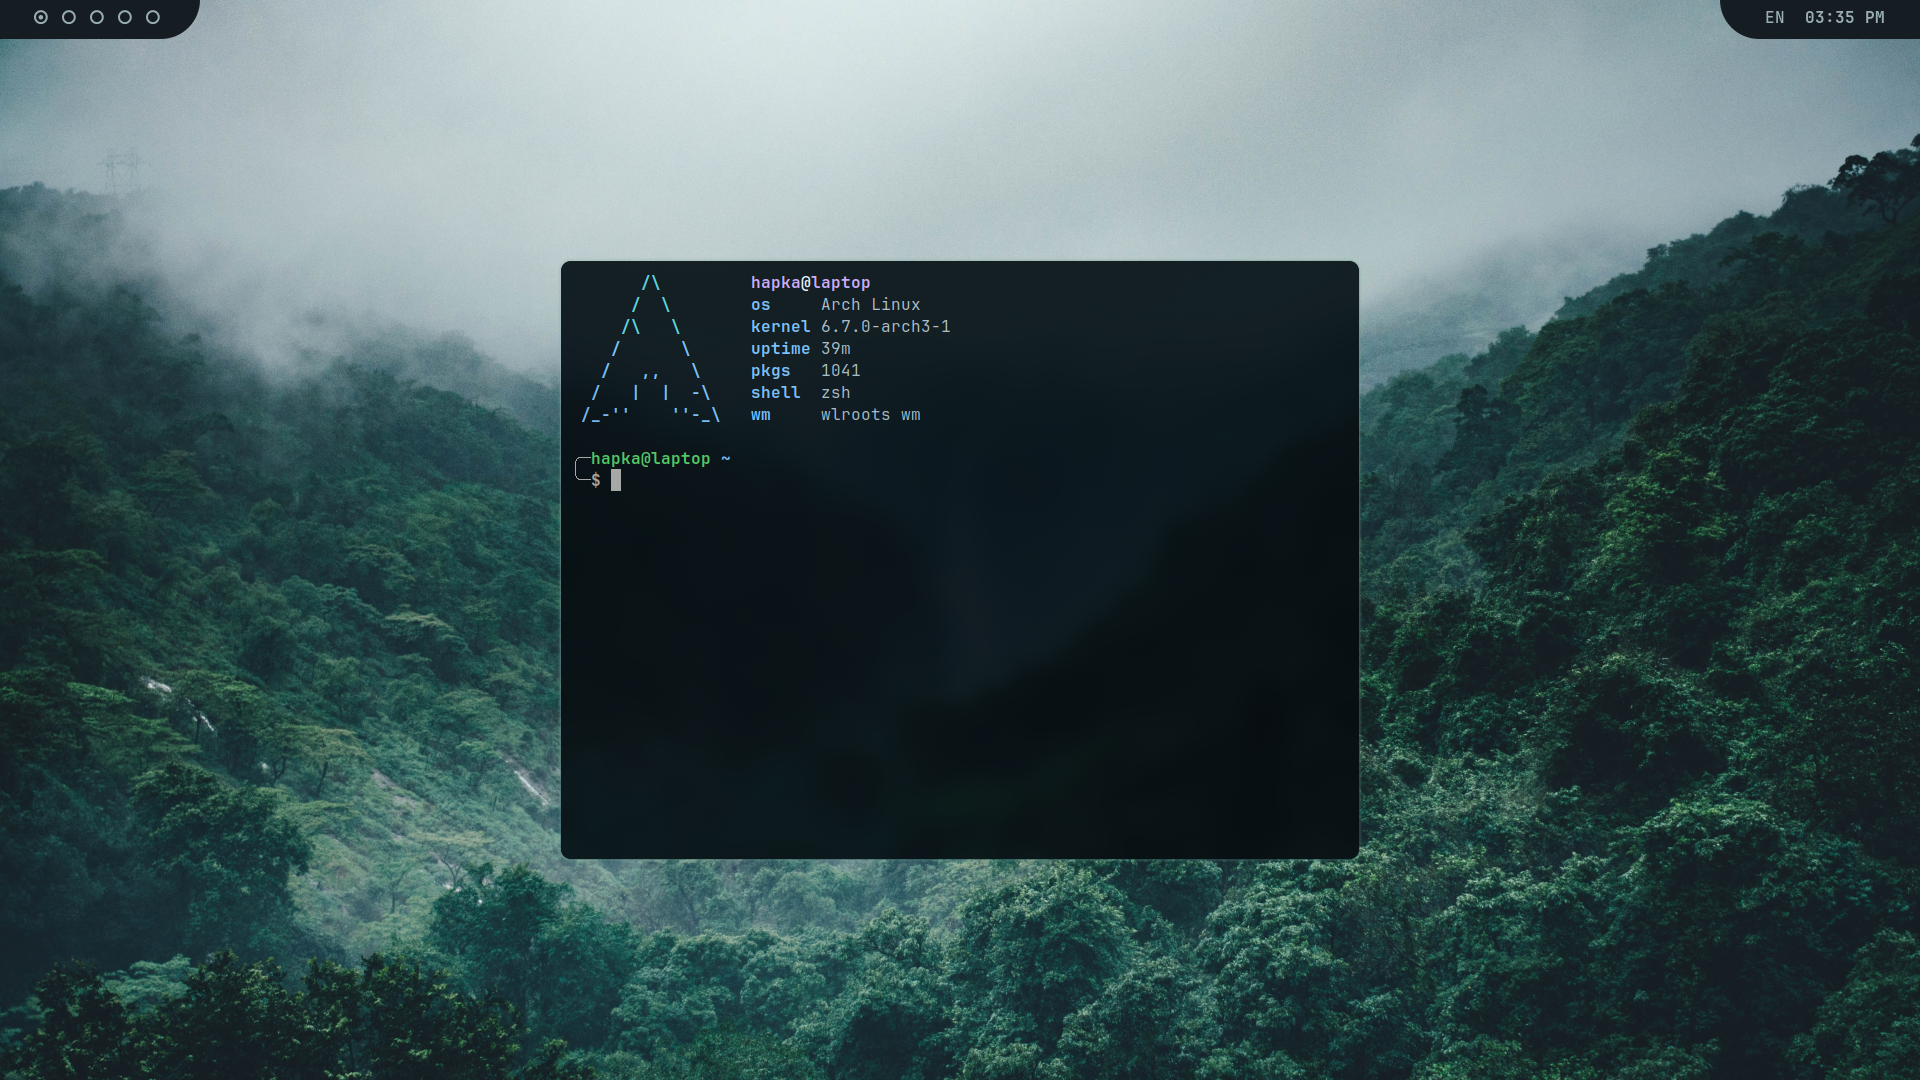
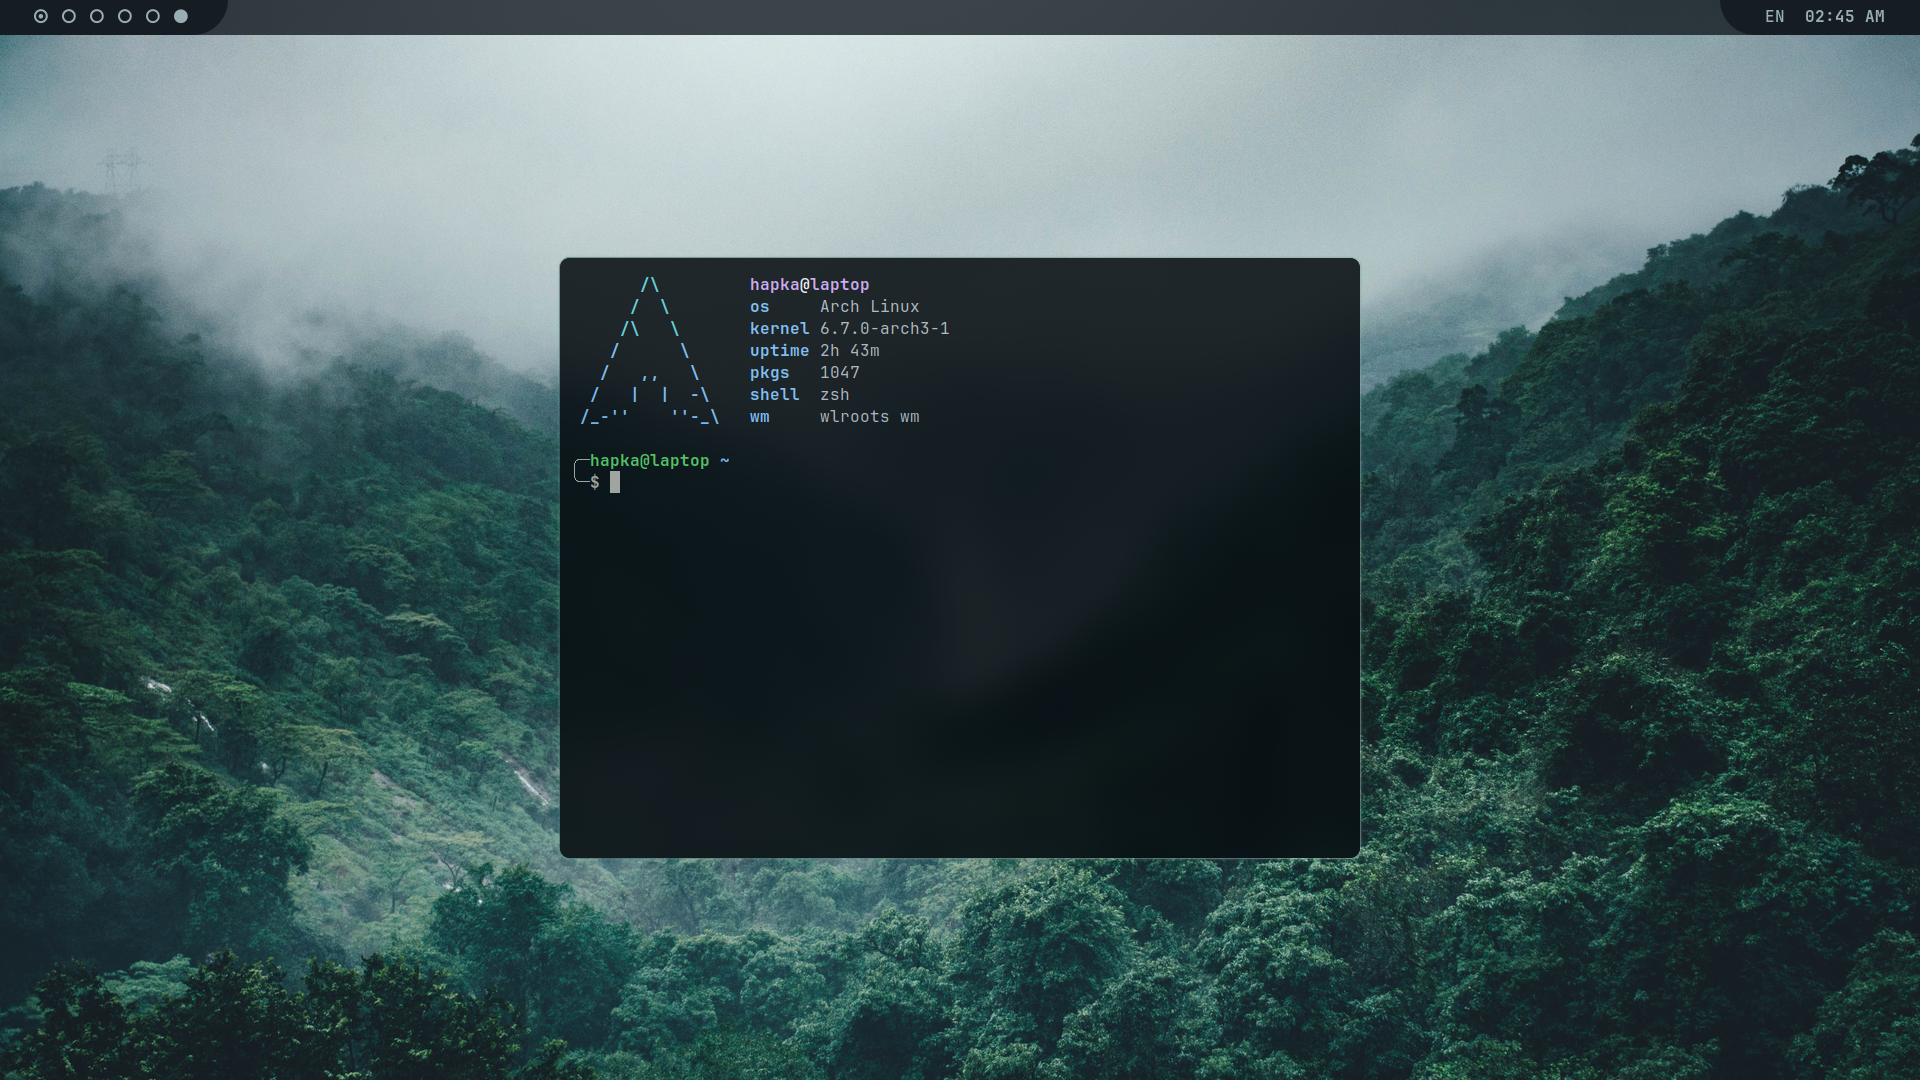
add theme toggler; update hyprland, waybar, alacritty; update readme.md

Changed region(s): [[0.2812, 0.2139, 0.6562, 0.4583], [0.0, 0.0, 0.9062, 0.0611], [0.9062, 0.0, 1.0, 0.0611]]

diff --git a/.config/waybar/style.css b/.config/waybar/style.css
@@ -1,12 +1,10 @@
-@define-color primary #99AEB3;
-@define-color background #151C22;
-/* @define-color background #1B2329; */
+@import "./colors.css";
 
 * {
   padding: 0;
   margin: 0;
   font-family: JetBrainsMono Nerd Font;
-  font-weight: 700;
+  font-weight: 400;
   font-size: 16px;
   /* background-color: #0B161C; */
   background: transparent;
@@ -35,11 +33,12 @@
 .modules-left {
   background: @background;
   min-width: 200px;
-  padding: 4px 0px 9px 0px;
+  padding: 3px 0px 6px 0px;
 }
 
 window#waybar {
   background-color: rgba(0, 0, 0, 0);
+  background: @background-alt;
 }
 
 #custom-window-name {
@@ -54,6 +53,7 @@ window#waybar {
   background: transparent;
   font-weight: 600;
   font-size: 16px;
+  border-radius: 0px;
 }
 
 #workspaces {

diff --git a/.config/waybar/colors.css b/.config/waybar/colors.css
@@ -1,0 +1,6 @@
+@define-color primary #99AEB3;
+@define-color background #151C22;
+@define-color background-alt rgba(21, 28, 34, 0.8);
+@define-color primary-light #151C22;
+@define-color background-light #DCDCDC;
+@define-color background-light-alt rgba(255, 255, 255, 0.5);

diff --git a/README.md b/README.md
@@ -4,7 +4,7 @@
 
 ### hyprland 
 ![preview-hypr](./.preview/preview-hypr.png)
-
+![preview-hypr](./.preview/preview-hypr2.png)
 
 ## Dependencies
 Ensure that the following packages are installed on your system.
@@ -20,7 +20,7 @@ Missing dependencies may lead to errors or incomplete configurations.
 - [alacritty](https://github.com/alacritty/alacritty)
 - [zsh](https://github.com/ohmyzsh/ohmyzsh/)
 - [hyprland](https://github.com/hyprwm/Hyprland)
-- [hyprpaper](https://github.com/hyprwm/hyprpaper)
+- [swww](https://github.com/igfae/swww)
 - [waybar](https://github.com/Alexays/Waybar)
 - [dunst](https://github.com/dunst-project/dunst)
 
